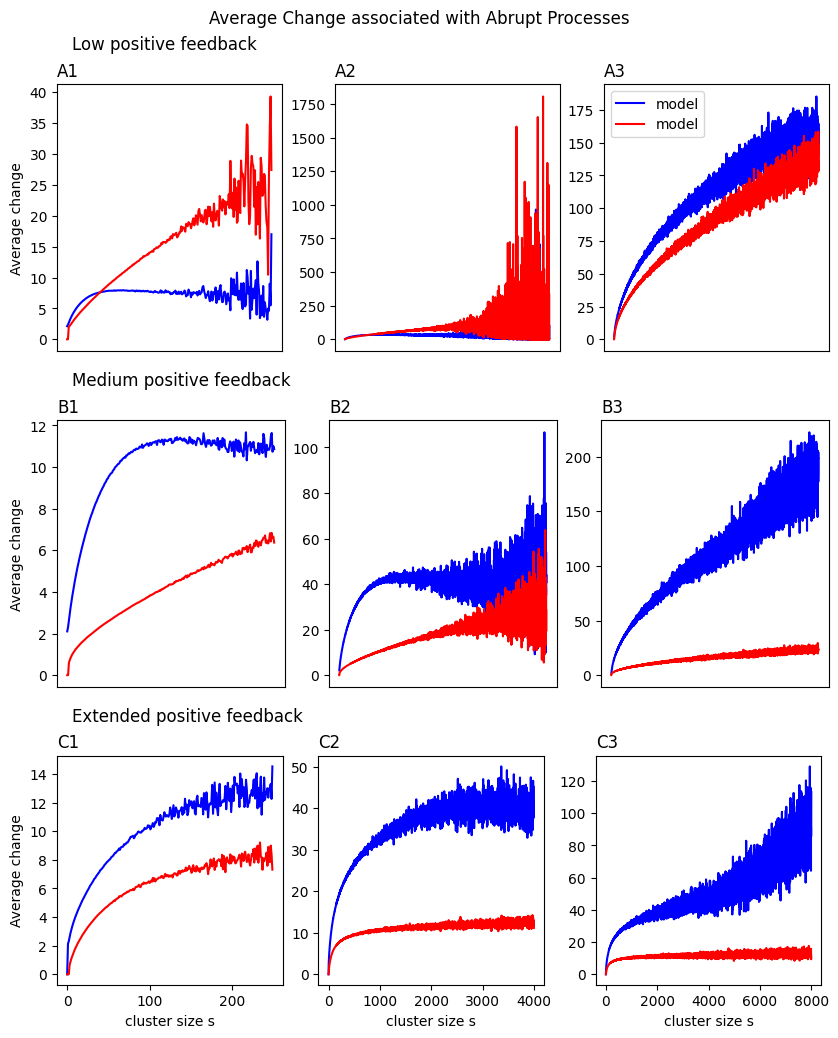
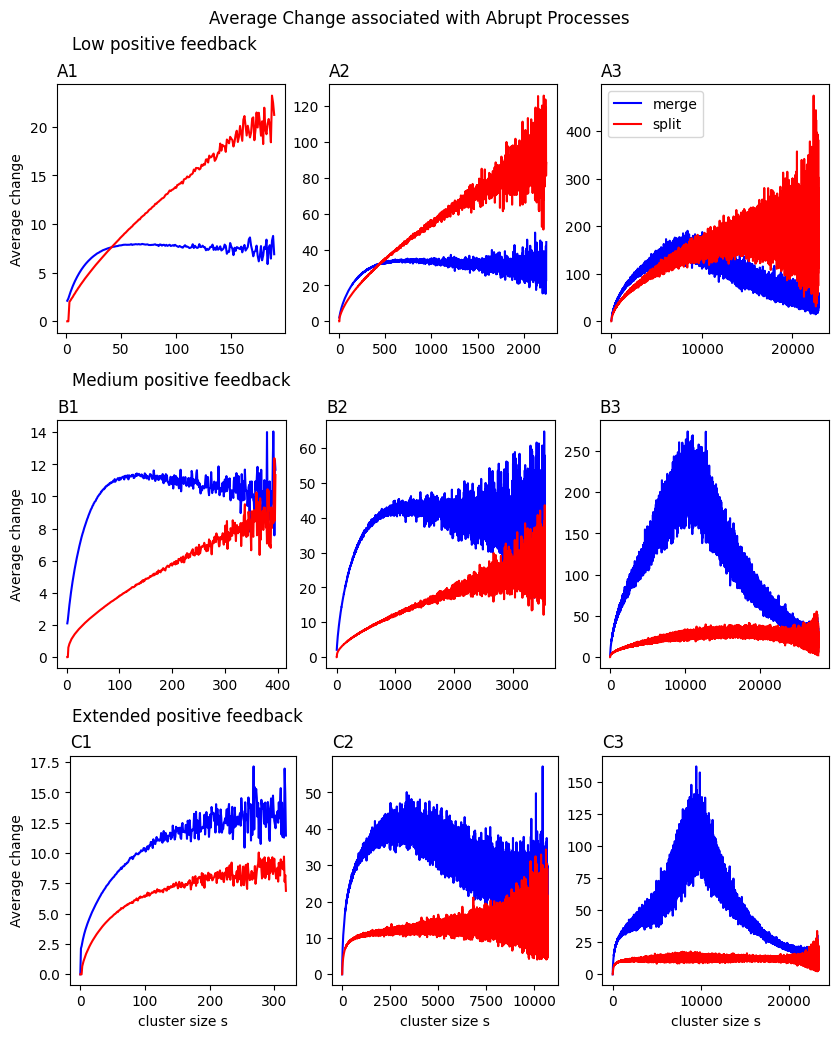
Init repo for sim on 47

diff --git a/fig6.py b/fig6.py
@@ -7,7 +7,7 @@ from tqdm import tqdm
 from utils import get_file_root
 
 
-def load_abrupt(model_name, dataset, param, limit):
+def load_abrupt(model_name, dataset, param):
     file_root = get_file_root(model_name, param)
     file_name = f"{base_path}/{model_name}/{dataset}/{file_root}/{file_root}_sde.txt"
     data = transpose(loadtxt(file_name, dtype=float))
@@ -17,18 +17,15 @@ def load_abrupt(model_name, dataset, param, limit):
     data = transpose(loadtxt(file_name, dtype=float))
     cluster_sizes, merge, split = data[0], data[1], data[2]
 
-    if model_name != "null_model":
-        return cluster_sizes[:limit], merge[:limit], split[:limit]
-    else:
-        limit = -1
-        for i in range(len(cluster_sizes)):
-            if num_samples[i] < samples_cutoff:
-                limit = i
-                break
-        if limit == -1:
-            limit = 10
+    limit = -1
+    for i in range(len(cluster_sizes)):
+        if num_samples[i] < samples_cutoff:
+            limit = i
+            break
+    if limit == -1:
+        limit = 10
 
-        return cluster_sizes[:limit], merge[:limit], split[:limit]
+    return cluster_sizes[:limit], merge[:limit], split[:limit]
 
 
 if __name__ == '__main__':
@@ -39,7 +36,7 @@ if __name__ == '__main__':
     if null_dataset == "100x100_23":
         samples_cutoff = 5000
     elif null_dataset == "256x256_64":
-        samples_cutoff = 15000
+        samples_cutoff = 1000
 
     model_names = []
     display_names = []
@@ -109,34 +106,19 @@ if __name__ == '__main__':
 
         for col, ax in enumerate(axs):
             ax.set_title(chr(65 + row) + str(col + 1), loc="left")
-
-            if col == 0:
-                limit = 250
-            elif col == 1:
-                limit = 4000
-            elif col == 2:
-                limit = 8000
-
-            cluster_sizes, merge, split = load_abrupt(model_name, dataset, param[col], limit)
-            # null_cluster_sizes, null_merge, null_split = load_drift("null_model", null_dataset, [density[col]], 100)
-
+            cluster_sizes, merge, split = load_abrupt(model_name, dataset, param[col])
             ax.plot(cluster_sizes, merge, "b-")
             ax.plot(cluster_sizes, -split, "r-")
-            # ax.plot(null_cluster_sizes, null_merge, "b--")
-            # ax.plot(null_cluster_sizes, -null_split, "r--")
 
             if row == num_rows - 1:
                 ax.set_xlabel("cluster size s")
-            else:
-                ax.set_xticklabels([])
-                ax.set_xticks([])
                 
             if col == 0:
                 ax.set_ylabel("Average change")
 
             if row == 0 and col == num_cols - 1:
-                blue_line = Line2D([0], [0], color="blue", label="model")
-                red_line = Line2D([0], [0], color="red", label="model")
+                blue_line = Line2D([0], [0], color="blue", label="merge")
+                red_line = Line2D([0], [0], color="red", label="split")
                 ax.legend(handles=[blue_line, red_line])
 
     if main_fig:

diff --git a/fig7.py b/fig7.py
@@ -31,7 +31,7 @@ def load_processes(model_name, dataset, param):
 if __name__ == '__main__':
     base_path = f"./results"
     null_dataset = "256x256_64"
-    main_fig = True
+    main_fig = False
 
     if null_dataset == "100x100_23":
         samples_cutoff = 5000
@@ -81,6 +81,12 @@ if __name__ == '__main__':
         variables.append("p")
         densities.append([0.24, 0.38, 0.52])
 
+        model_names.append("tdp")
+        display_names.append("TDP (q = 0.92)")
+        datasets.append("256x256_64")
+        params.append([[0.282, 0.92], [0.283, 0.92], [0.2845, 0.92]])
+        variables.append("p")
+
     num_rows = len(model_names)
     num_cols = 3
     fig, axs = plt.subplots(nrows=num_rows, ncols=1, constrained_layout=True, figsize=(8.27, 8.27 * num_rows / num_cols + 2))
@@ -99,7 +105,6 @@ if __name__ == '__main__':
         dataset = datasets[row]
         param = params[row]
         variable = variables[row]
-        density = densities[row]
 
         subfig.suptitle(display_name, x=0.08, ha="left")
         axs = subfig.subplots(nrows=1, ncols=num_cols)
@@ -126,9 +131,23 @@ if __name__ == '__main__':
             else:
                 ax.set_xticklabels([])
                 ax.set_xticks([])
+
+            if col == 0:
+                ax.set_xlim(1, 10 ** 3)
+            elif col == 1:
+                ax.set_xlim(1, 10 ** 4)
+            else:
+                ax.set_xlim(1, 10 ** 4.5)
                 
             if col == 0:
-                ax.set_ylabel("Number of processes")
+                ax.set_ylabel("Frequency")
+
+            if row == 0 and col == num_cols - 1:
+                blue_line = Line2D([0], [0], color="blue", label="merge")
+                red_line = Line2D([0], [0], color="red", label="split")
+                blue_dotted_line = Line2D([0], [0], color="blue", linestyle='--', label="growth")
+                red_dotted_line = Line2D([0], [0], color="red", linestyle='--', label="decay")
+                ax.legend(handles=[blue_line, red_line, blue_dotted_line, red_dotted_line])
 
     if main_fig:
         fig_name = f"./figures/fig7_{null_dataset}.png"

diff --git a/terminal.py b/terminal.py
@@ -89,12 +89,12 @@ if __name__ == '__main__':
     #     [0.42, 0.75]
     # ]
 
-    # simulation_name = "scanlon"
-    # parameter_values = [
-    #     [500],
-    #     [770],
-    #     [850]
-    # ]
+    simulation_name = "scanlon"
+    parameter_values = [
+        [500],
+        [770],
+        [850]
+    ]
 
     # simulation_name = "null"
     # parameter_values = [
@@ -149,15 +149,15 @@ if __name__ == '__main__':
     #     [900]
     # ]
 
-    simulation_name = "tdp"
-    parameter_values = [
-        [0.282, 0.92],
-        [0.2825, 0.92],
-        [0.283, 0.92],
-        [0.2835, 0.92],
-        [0.284, 0.92],
-        [0.2845, 0.92],
-        [0.285, 0.92]
-    ]
+    # simulation_name = "tdp"
+    # parameter_values = [
+    #     [0.282, 0.92],
+    #     [0.2825, 0.92],
+    #     [0.283, 0.92],
+    #     [0.2835, 0.92],
+    #     [0.284, 0.92],
+    #     [0.2845, 0.92],
+    #     [0.285, 0.92]
+    # ]
     
     run_simulation(simulation_name, parameter_values)
